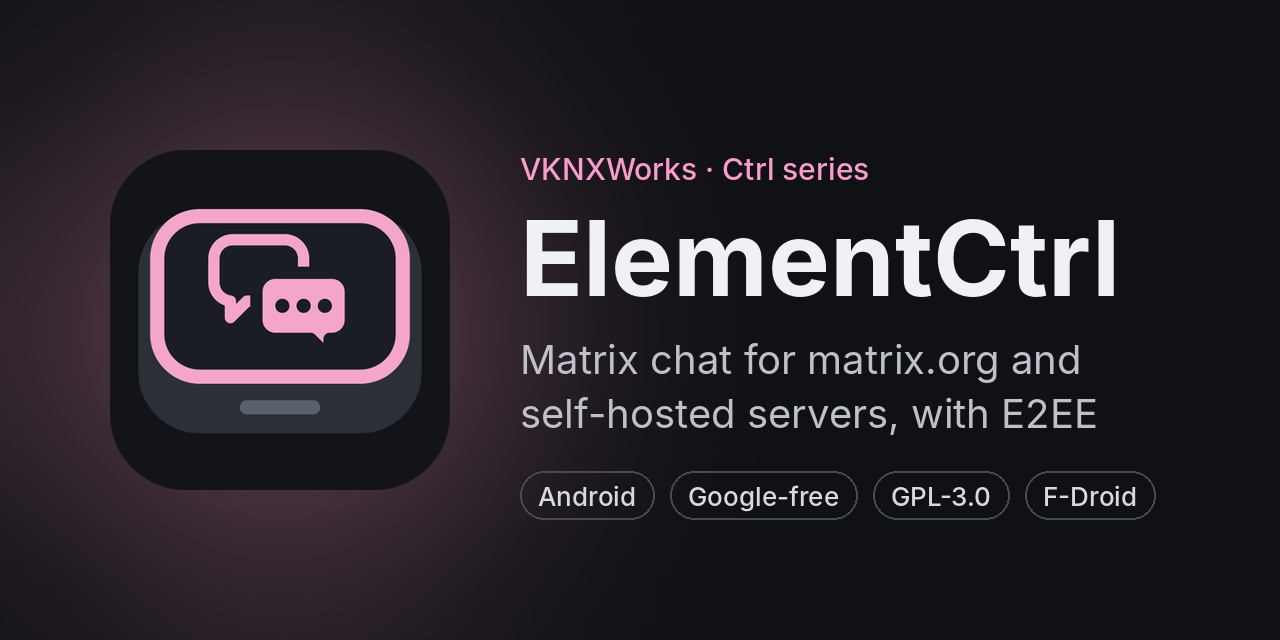
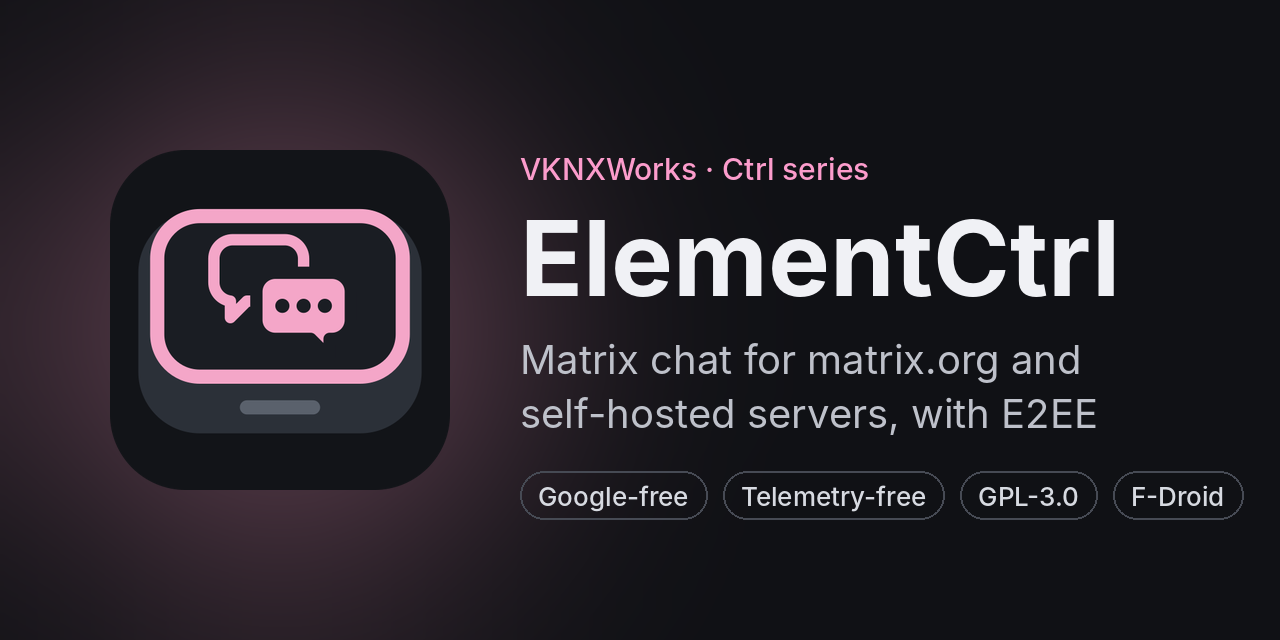
ElementCtrl 1.2.15: telemetry-free, usage stats removed
- Remove the opt-in Aptabase usage stats: Telemetry.kt, the one-time
  question, the Settings section, every tracking call and screen-view event
- Delete the two stored stats settings on first start after the update
- Drop the APTABASE_KEY/APTABASE_HOST build config and the CI key check
- README: Telemetry-free badge and a Privacy section in place of Usage stats
- Link preview image with the Telemetry-free tag

Claude-Session: https://claude.ai/code/session_01EwhEpZ1DKRJef9Cqeiv5g2

Changed region(s): [[0.4062, 0.7188, 0.9688, 0.8125]]

diff --git a/app/src/main/java/com/vknxworks/elementctrl/data/Prefs.kt b/app/src/main/java/com/vknxworks/elementctrl/data/Prefs.kt
@@ -22,6 +22,13 @@ enum class BubbleStyle(val label: String, val description: String) {
 class Prefs(context: Context) {
     private val sp: SharedPreferences = context.getSharedPreferences("settings", Context.MODE_PRIVATE)
 
+    init {
+        // ElementCtrl 1.2.15 removed the optional anonymous stats. Delete the two settings they used (their keys
+        // start with "usage_"), so nothing from them stays on the phone after the update.
+        val leftover = sp.all.keys.filter { it.startsWith("usage_") }
+        if (leftover.isNotEmpty()) sp.edit().apply { leftover.forEach { remove(it) } }.apply()
+    }
+
     private val _theme = MutableStateFlow(ThemeMode.entries.getOrElse(sp.getInt("theme", 0)) { ThemeMode.SYSTEM })
     val theme: StateFlow<ThemeMode> = _theme.asStateFlow()
     fun setTheme(mode: ThemeMode) { sp.edit().putInt("theme", mode.ordinal).apply(); _theme.value = mode }
@@ -76,21 +83,6 @@ class Prefs(context: Context) {
     /** Show joins, leaves, name changes and other room events in the timeline. */
     val showStateEvents: StateFlow<Boolean> = _showHiddenEvents.asStateFlow()
     fun setShowStateEvents(on: Boolean) { sp.edit().putBoolean("show_state_events", on).apply(); _showHiddenEvents.value = on }
-
-    private val _usageStats = MutableStateFlow(sp.getBoolean("usage_stats", false))
-    /** Opt-in anonymous usage stats (off until the user says yes). */
-    val usageStats: StateFlow<Boolean> = _usageStats.asStateFlow()
-
-    private val _usageStatsAsked = MutableStateFlow(sp.getBoolean("usage_stats_asked", false))
-    /** Whether the one-time usage stats question has been answered. */
-    val usageStatsAsked: StateFlow<Boolean> = _usageStatsAsked.asStateFlow()
-
-    /** Answers the first-run question, or flips the switch in Settings (which counts as an answer too). */
-    fun answerUsageStats(on: Boolean) {
-        sp.edit().putBoolean("usage_stats", on).putBoolean("usage_stats_asked", true).apply()
-        _usageStatsAsked.value = true
-        _usageStats.value = on
-    }
 
     /** Custom servers signed in to before, newest first, offered again on the server picker. */
     var recentCustomServers: List<String>

diff --git a/app/src/main/java/com/vknxworks/elementctrl/matrix/TimelineController.kt b/app/src/main/java/com/vknxworks/elementctrl/matrix/TimelineController.kt
@@ -8,7 +8,6 @@ import android.provider.OpenableColumns
 import android.util.Log
 import android.webkit.MimeTypeMap
 import java.io.File
-import com.vknxworks.elementctrl.telemetry.Telemetry
 import kotlinx.coroutines.CoroutineScope
 import kotlinx.coroutines.Dispatchers
 import kotlinx.coroutines.SupervisorJob
@@ -439,7 +438,6 @@ class TimelineController(
         val base = if (emote) messageEventContentFromMarkdownAsEmote(text) else messageEventContentFromMarkdown(text)
         val content = base.withMentions(Mentions(userIds = mentions.distinct(), room = text.contains("@room")))
         if (replyTo != null) t.sendReply(content, replyTo) else t.send(content)
-        trackSent("text")
     }
 
     fun edit(item: TimelineEntry.Message, text: String, mentions: List<String>) = launchAction { t ->
@@ -513,7 +511,6 @@ class TimelineController(
                 AudioInfo(duration = java.time.Duration.ofMillis(durationMs), size = file.length().toULong(), mimetype = "audio/ogg"),
                 waveform,
             ).join()
-            trackSent("voice")
         } finally {
             // The SDK has its own (encrypted) copy once the send is queued; don't leave the recording lying around.
             file.delete()
@@ -602,12 +599,7 @@ class TimelineController(
             else -> t.sendFile(params, FileInfo(mimetype = mime, size = file.length().toULong(), thumbnailInfo = null, thumbnailSource = null))
         }
         handle.join()
-        trackSent(Telemetry.attachmentKind(mime))
     }
-
-    /** Usage stats (if opted in): only the kind of message, never its room, text, file or size. */
-    private fun trackSent(kind: String) =
-        com.vknxworks.elementctrl.ElementCtrlApp.graph.telemetry.track("message_sent", mapOf("kind" to kind))
 
     private fun videoMeta(file: File): Triple<Int, Int, Long> = runCatching {
         MediaMetadataRetriever().use { r ->

diff --git a/app/src/main/java/com/vknxworks/elementctrl/ui/settings/SettingsScreen.kt b/app/src/main/java/com/vknxworks/elementctrl/ui/settings/SettingsScreen.kt
@@ -47,7 +47,6 @@ import androidx.compose.material.icons.filled.Edit
 import androidx.compose.material.icons.filled.Favorite
 import androidx.compose.material.icons.filled.Group
 import androidx.compose.material.icons.filled.Info
-import androidx.compose.material.icons.filled.Insights
 import androidx.compose.material.icons.filled.KeyboardReturn
 import androidx.compose.material.icons.filled.MailOutline
 import androidx.compose.material.icons.filled.Notifications
@@ -330,22 +329,6 @@ fun SettingsScreen(session: MatrixSession, onBack: () -> Unit, onSecurity: () ->
                     trailing = { Switch(lock.hideContent, { lock.hideContent = it }) },
                 )
                 SettingRow(Icons.Default.Password, "Change PIN") { pinDialog = com.vknxworks.elementctrl.ui.lock.PinMode.Change }
-            }
-
-            if (graph.telemetry.available) {
-                val usageStats by prefs.usageStats.collectAsStateWithLifecycle()
-                SectionHeader("Usage stats")
-                SettingRow(
-                    Icons.Default.Insights, "Share anonymous usage stats",
-                    "Helps decide what to improve next",
-                    trailing = { Switch(usageStats, prefs::answerUsageStats) },
-                )
-                Text(
-                    USAGE_STATS_DESCRIPTION,
-                    style = MaterialTheme.typography.bodySmall,
-                    color = MaterialTheme.colorScheme.onSurfaceVariant,
-                    modifier = Modifier.padding(horizontal = 16.dp, vertical = 4.dp),
-                )
             }
 
             if (ignored.isNotEmpty()) {

diff --git a/app/src/main/java/com/vknxworks/elementctrl/ui/MainNav.kt b/app/src/main/java/com/vknxworks/elementctrl/ui/MainNav.kt
@@ -138,19 +138,6 @@ fun MainNav(session: MatrixSession) {
         }
     }
 
-    // Usage stats (only if the user opted in): the kind of screen, never the room, person or event it shows.
-    val entryId = backStack?.id
-    val screen = backStack?.destination?.route?.let(::screenName)
-    LaunchedEffect(entryId) {
-        if (screen != null) ElementCtrlApp.graph.telemetry.track("screen_viewed", mapOf("screen" to screen))
-    }
-    // A chat opened in the tablet pane isn't a screen change; count it as the room screen.
-    val paneOpen = paneRoom
-    LaunchedEffect(paneOpen) {
-        if (paneOpen != null) ElementCtrlApp.graph.telemetry.track("screen_viewed", mapOf("screen" to "room"))
-    }
-    com.vknxworks.elementctrl.ui.settings.UsageStatsPrompt()
-
     NavHost(nav, startDestination = "home") {
         composable("home") {
             val home: @Composable (Modifier) -> Unit = { modifier ->
@@ -344,12 +331,6 @@ fun MainNav(session: MatrixSession) {
         )
     }
 }
-
-/**
- * "room/{roomId}?focus={focus}" -> "room". Only the route's fixed name: the destination's pattern never holds the
- * actual room, user or event IDs, and everything after the first "/" or "?" is dropped anyway.
- */
-private fun screenName(route: String): String = route.substringBefore('/').substringBefore('?')
 
 /** Two panes from 840 dp wide (tablets, unfolded foldables), or 600 dp in landscape. */
 @Composable

diff --git a/app/src/main/java/com/vknxworks/elementctrl/ui/room/SearchScreen.kt b/app/src/main/java/com/vknxworks/elementctrl/ui/room/SearchScreen.kt
@@ -69,15 +69,9 @@ fun SearchScreen(session: MatrixSession, roomId: String, roomName: String?, onBa
     val atEnd by remember { derivedStateOf { (listState.layoutInfo.visibleItemsInfo.lastOrNull()?.index ?: 0) >= results.size - 4 } }
 
     LaunchedEffect(Unit) { runCatching { focus.requestFocus() } }
-    var searchTracked by remember { mutableStateOf(false) }
     LaunchedEffect(query) {
         delay(300)
         search.query(query)
-        // Usage stats (if opted in): that search inside a chat was used, once per visit. Never the words or the chat.
-        if (query.isNotBlank() && !searchTracked) {
-            searchTracked = true
-            com.vknxworks.elementctrl.ElementCtrlApp.graph.telemetry.track("search_used", mapOf("where" to "chat"))
-        }
     }
     // The index keeps growing while history is fetched, so keep asking for more while scrolled to the end.
     LaunchedEffect(atEnd, results.size, loading) { if (atEnd && query.isNotBlank() && !loading && !endReached) search.more() }

diff --git a/app/src/main/java/com/vknxworks/elementctrl/ui/home/HomeScreen.kt b/app/src/main/java/com/vknxworks/elementctrl/ui/home/HomeScreen.kt
@@ -109,10 +109,6 @@ fun HomeScreen(
     var filter by rememberSaveable { mutableStateOf(RoomFilter.ALL) }
     var searching by rememberSaveable { mutableStateOf(false) }
     var query by rememberSaveable { mutableStateOf("") }
-    // Usage stats (if opted in): that the chat list search was opened. Never what's typed.
-    LaunchedEffect(searching) {
-        if (searching) com.vknxworks.elementctrl.ElementCtrlApp.graph.telemetry.track("search_used", mapOf("where" to "chat_list"))
-    }
     var menuFor by remember { mutableStateOf<RoomSummary?>(null) }
     var leaving by remember { mutableStateOf<RoomSummary?>(null) }
 

diff --git a/app/src/main/java/com/vknxworks/elementctrl/matrix/AppGraph.kt b/app/src/main/java/com/vknxworks/elementctrl/matrix/AppGraph.kt
@@ -33,7 +33,6 @@ class AppGraph(val context: Context) {
     val auth = AuthService(this)
     val redirectScheme: String = context.getString(R.string.login_redirect_scheme)
     val scope = CoroutineScope(SupervisorJob() + Dispatchers.Main)
-    val telemetry = com.vknxworks.elementctrl.telemetry.Telemetry(context, prefs, scope)
 
     private val _state = MutableStateFlow<AppState>(AppState.Loading)
     val state: StateFlow<AppState> = _state.asStateFlow()

diff --git a/app/src/main/java/com/vknxworks/elementctrl/MainActivity.kt b/app/src/main/java/com/vknxworks/elementctrl/MainActivity.kt
@@ -44,7 +44,6 @@ class MainActivity : FragmentActivity() {
         // Never keep a snapshot of open chats in the recent-apps screen (FLAG_SECURE below is the stronger, optional step).
         setRecentsScreenshotEnabled(false)
         handleIntent(intent)
-        if (savedInstanceState == null) ElementCtrlApp.graph.telemetry.appOpened()
         setContent {
             ElementCtrlTheme {
                 val lock = ElementCtrlApp.graph.lock

diff --git a/README.md b/README.md
@@ -2,7 +2,7 @@
 
 **A Matrix chat app for matrix.org and your own server.**
 
-[![Latest release](https://img.shields.io/github/v/release/VoidedKN0X/ElementCtrl?label=download)](https://github.com/VoidedKN0X/ElementCtrl/releases/latest) ![Android 13+](https://img.shields.io/badge/Android-13%2B-3DDC84?logo=android&logoColor=white) [![License: GPL-3.0](https://img.shields.io/badge/license-GPL--3.0-blue)](LICENSE) [![Sponsor](https://img.shields.io/badge/sponsor-GitHub-ea4aaa?logo=githubsponsors&logoColor=white)](https://github.com/sponsors/VoidedKN0X)
+[![Latest release](https://img.shields.io/github/v/release/VoidedKN0X/ElementCtrl?label=download)](https://github.com/VoidedKN0X/ElementCtrl/releases/latest) ![Android 13+](https://img.shields.io/badge/Android-13%2B-3DDC84?logo=android&logoColor=white) [![License: GPL-3.0](https://img.shields.io/badge/license-GPL--3.0-blue)](LICENSE) ![Telemetry-free](https://img.shields.io/badge/telemetry-none-brightgreen) [![Sponsor](https://img.shields.io/badge/sponsor-GitHub-ea4aaa?logo=githubsponsors&logoColor=white)](https://github.com/sponsors/VoidedKN0X)
 
 ElementCtrl is a Matrix chat client in the spirit of Element X. It works with matrix.org, other public servers and your own self-hosted Synapse, and is built on the same Matrix Rust SDK as Element X, so encryption and verification work the same way.
 
@@ -68,18 +68,13 @@ If the Obtainium button doesn't open the app, add `https://github.com/VoidedKN0X
 - **Just your domain doesn't work?** Make sure `https://yourdomain/.well-known/matrix/client` points to your server, or enter the full server address.
 - **Not included yet:** voice and video calls, spaces, live location and multiple accounts at once.
 
-## Usage stats
+## Privacy
 
-ElementCtrl can share anonymous usage stats, **only if you say yes**. It asks once after you sign in, and you can change it any time in **Settings > Usage stats**.
+**Telemetry-free.** ElementCtrl has no analytics, crash reporting, usage stats or tracking of any kind. It only talks to your homeserver (and its sign-in page, if your server signs in through the browser) and, if you turn on push, your push app's server, such as your ntfy server.
 
-- **Shared:** which screens you open (the kind of screen, like "chat list", "room" or "settings", never which room or person), whether you send a text, voice message, picture or file (only the kind, never the message or the chat), whether you use search, the app version, Android version, phone model, language, phone or tablet, and whether notifications come through push, the background check or are off.
-- **Never shared:** your homeserver, your Matrix ID or anyone else's, room names or IDs, what you write, send or search for, how many messages you send in a chat, or any ID that stays the same between sessions.
-- **Where:** VKNXWorks' own self-hosted [Aptabase](https://aptabase.com) server. Nothing goes to Google or analytics companies. Like any website, the server sees your IP address; Aptabase uses it only to work out the country and doesn't store it. Your chats themselves still only go to your homeserver.
-- **Switching stats off** stops them straight away and throws away anything not yet sent.
-
-**Other connections.** Apart from your homeserver (and the stats above, only if you said yes), ElementCtrl only contacts one other server: when you turn on push, it asks your push app's server (for example your ntfy server) once whether it has its own Matrix gateway. Link previews are fetched by your homeserver, never by the phone, and pushes reach the phone through your push app (see *What a push contains* above).
-
-Builds from source don't include the stats key, so they can't send anything and the setting is hidden. The code is in [`Telemetry.kt`](app/src/main/java/com/vknxworks/elementctrl/telemetry/Telemetry.kt).
+- **Push:** when you turn it on, ElementCtrl asks your push app's server once whether it has its own Matrix gateway. Pushes then reach the phone through your push app (see *What a push contains* above).
+- **Link previews** are fetched by your homeserver, never by the phone.
+- **The Matrix SDK's crash reporting is switched off**, and release builds don't write the SDK's logs anywhere.
 
 ## Build from source
 

diff --git a/CHANGELOG.md b/CHANGELOG.md
@@ -2,11 +2,13 @@
 
 To publish a new version: bump `versionCode` and `versionName` in `app/build.gradle.kts`, add a section here, and push to `main`. Pushes without a version bump only build; they don't make a release.
 
-## Unreleased
+## 1.2.15
+
+### Privacy
+- **No more usage stats: ElementCtrl is now telemetry-free.** The optional anonymous usage stats are gone completely, along with the Usage stats setting in Settings and the one-time question after sign-in. The app no longer contacts VKNXWorks' stats server at all, and the settings it used are deleted from your phone when you update. ElementCtrl now only talks to your homeserver and, if you use push, your push app's server (such as your ntfy server).
 
 ### Changed
-
-- **README**: a Screenshots section (screenshots are coming soon), and a link preview image (`.github/assets/social-preview.png`) with ElementCtrl's icon, name and summary, for when the repo is shared on Reddit, Discord or elsewhere
+- **README**: a Screenshots section (screenshots are coming soon), and a link preview image (`.github/assets/social-preview.png`) with ElementCtrl's icon, name and summary, for when the repo is shared on Reddit, Discord or elsewhere. It also gets a "Telemetry-free" badge and tag, and a Privacy section listing exactly what ElementCtrl connects to, in place of the old Usage stats section.
 
 ## 1.2.14
 
